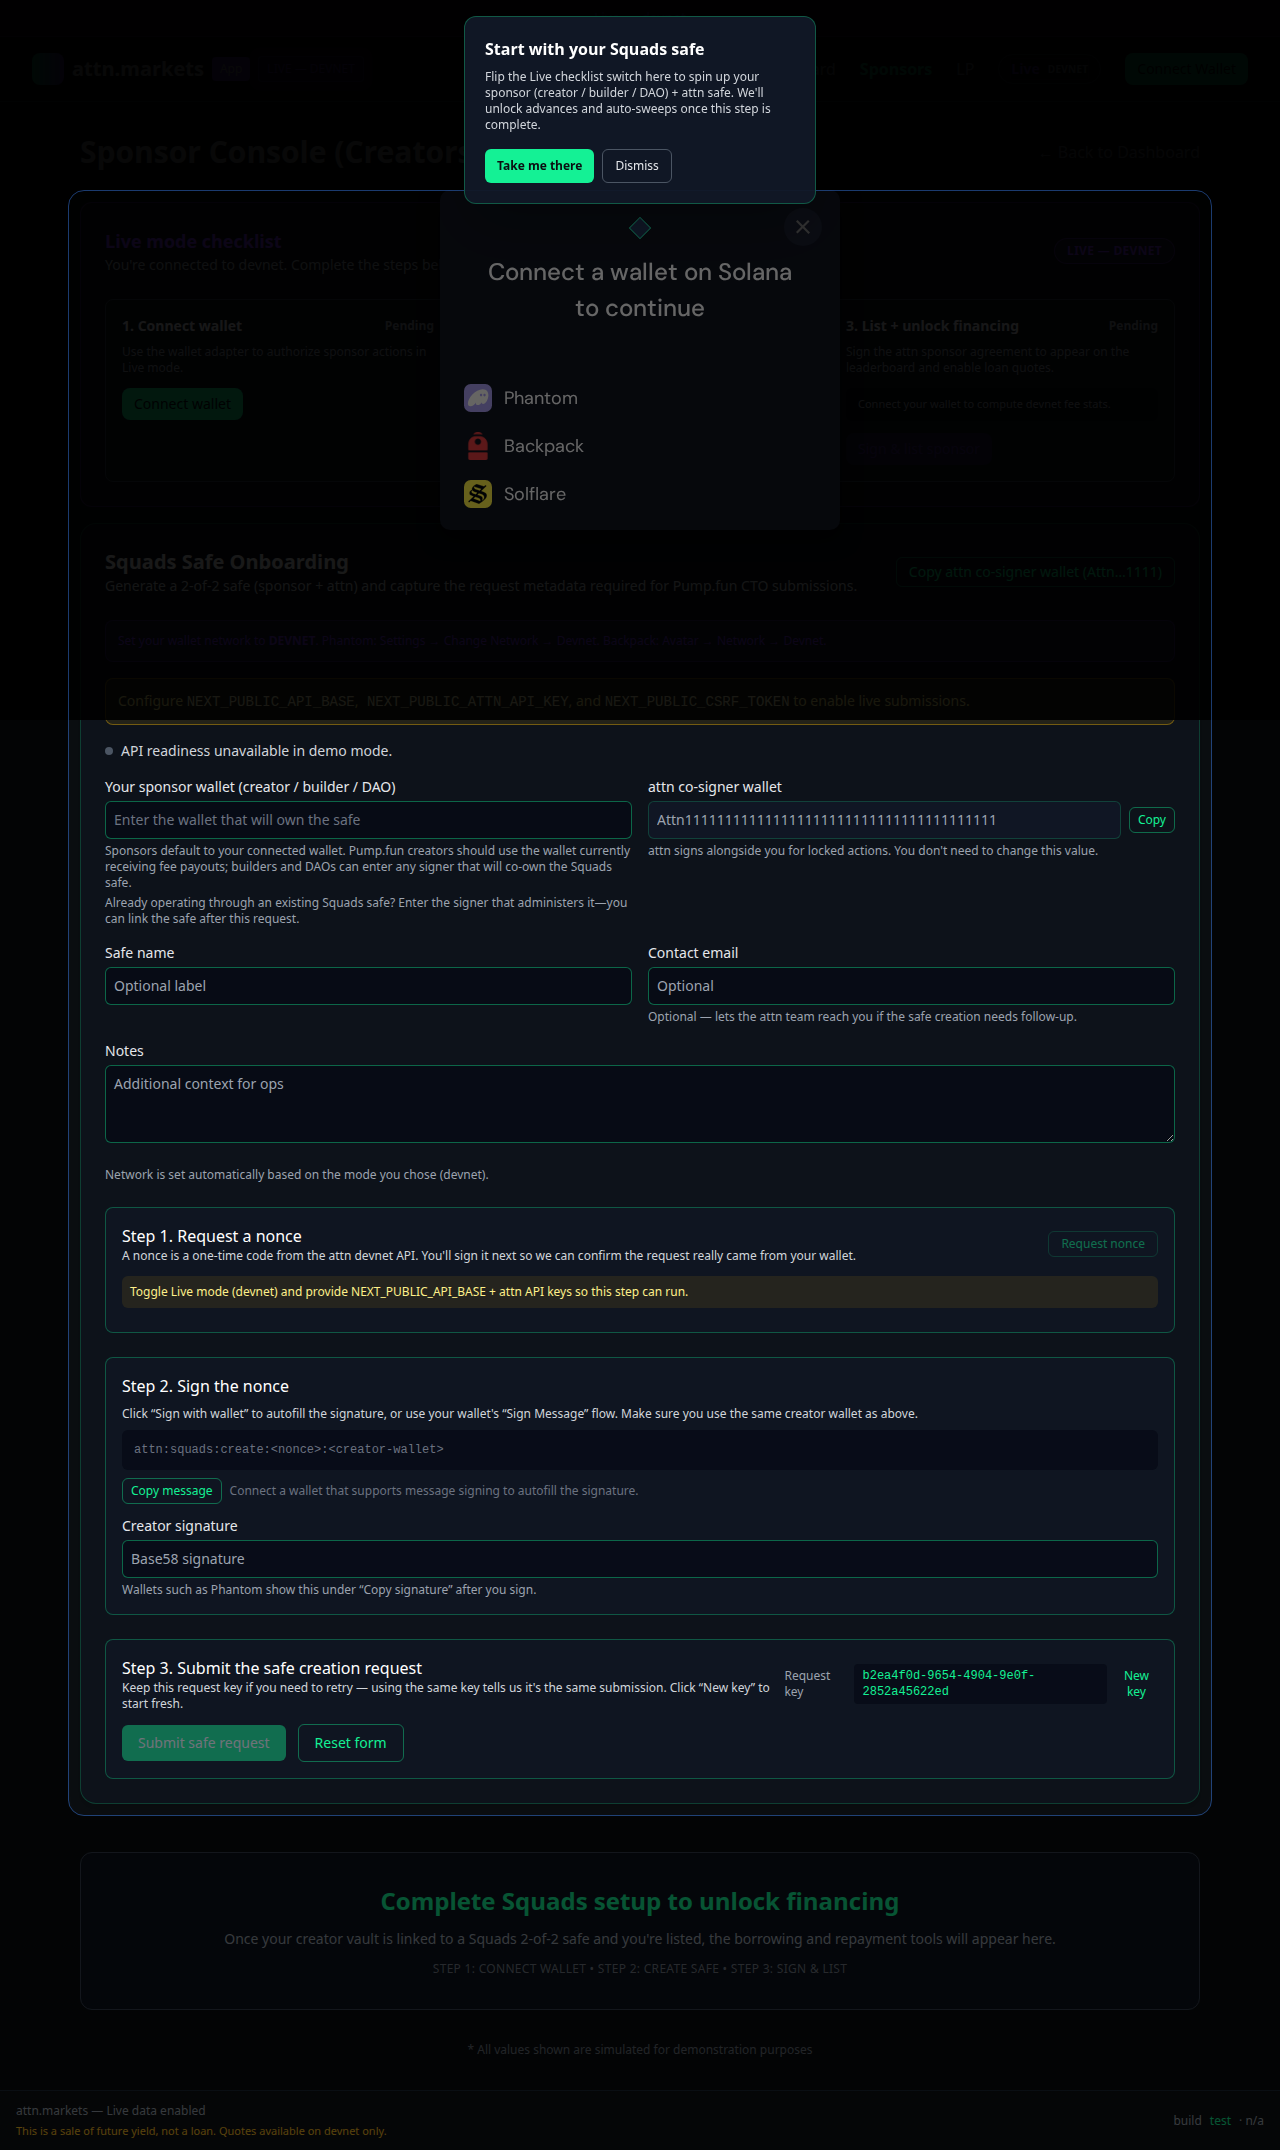
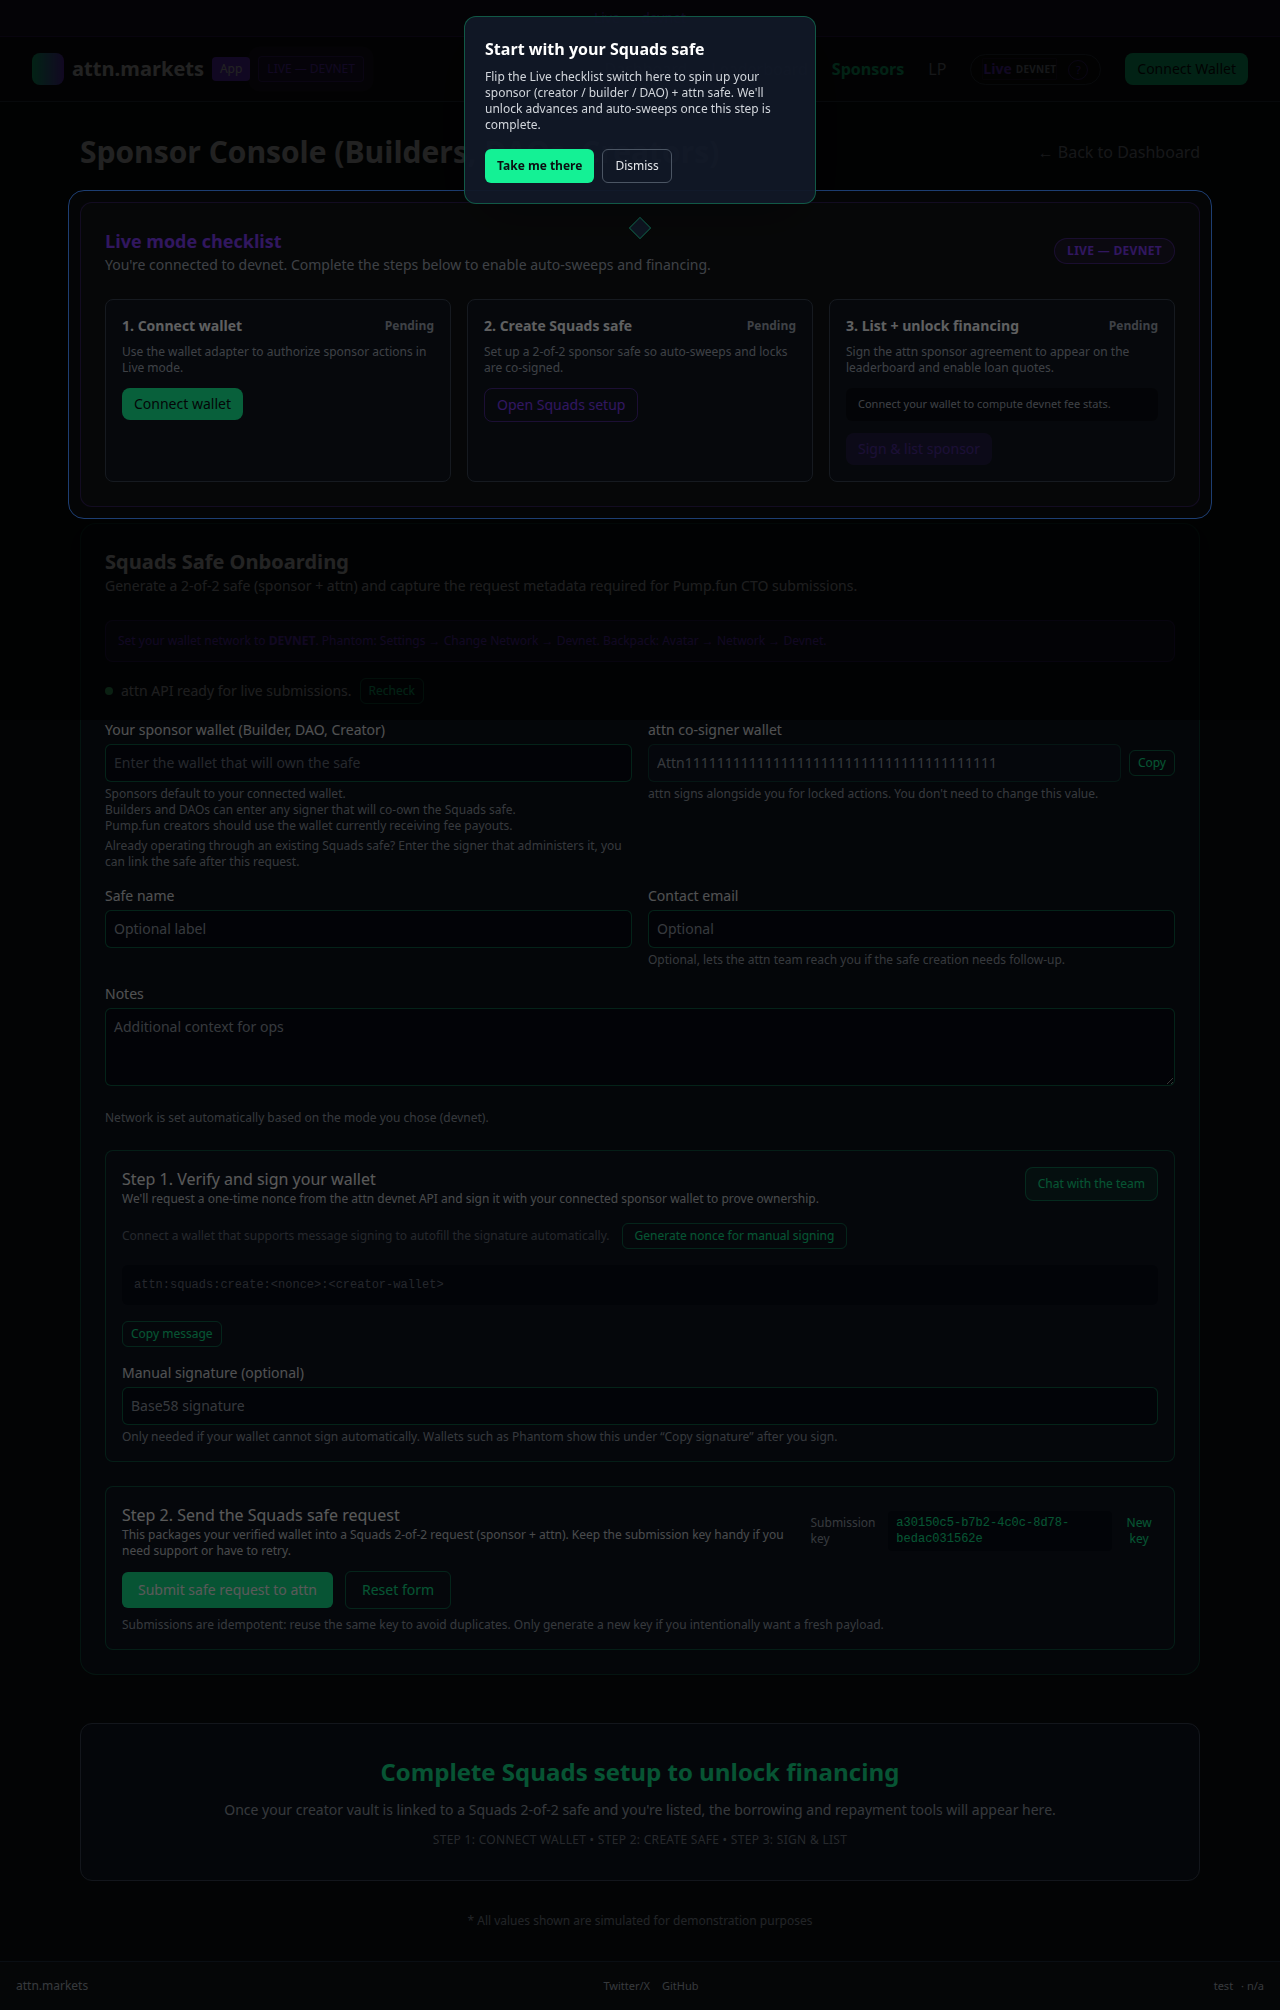
ux: align sponsor live checklist with always-on squads module

diff --git a/apps/dapp-prod/app/sponsor/page.tsx b/apps/dapp-prod/app/sponsor/page.tsx
@@ -1054,115 +1054,117 @@ export default function SponsorPage(): React.JSX.Element {
             ← Back to Dashboard
           </a>
         </div>
-        {isLive && !hasSquadsSafe && (
-          <div ref={liveChecklistRef} className="mb-8 space-y-4">
-            <div className="bg-dark-card border border-secondary/30 rounded-xl p-6">
-              <div className="flex flex-col gap-3 md:flex-row md:items-center md:justify-between">
-                <div>
-                  <h2 className="text-lg font-semibold text-secondary">Live mode checklist</h2>
-                  <p className="text-sm text-text-secondary">
-                    You&apos;re connected to devnet. Complete the steps below to enable auto-sweeps and financing.
-                  </p>
+        {isLive && (
+          <div className="mb-8 space-y-4">
+            {!hasSquadsSafe && (
+              <div ref={liveChecklistRef} className="bg-dark-card border border-secondary/30 rounded-xl p-6">
+                <div className="flex flex-col gap-3 md:flex-row md:items-center md:justify-between">
+                  <div>
+                    <h2 className="text-lg font-semibold text-secondary">Live mode checklist</h2>
+                    <p className="text-sm text-text-secondary">
+                      You&apos;re connected to devnet. Complete the steps below to enable auto-sweeps and financing.
+                    </p>
+                  </div>
+                  <span className="inline-flex items-center gap-2 rounded-full border border-secondary/40 bg-secondary/10 px-3 py-1 text-xs font-semibold uppercase tracking-wide text-secondary">
+                    Live — {cluster}
+                  </span>
                 </div>
-                <span className="inline-flex items-center gap-2 rounded-full border border-secondary/40 bg-secondary/10 px-3 py-1 text-xs font-semibold uppercase tracking-wide text-secondary">
-                  Live — {cluster}
-                </span>
+
+                <div className="mt-6 grid gap-4 md:grid-cols-3">
+                  <div className={`rounded-lg border ${isWalletConnected ? 'border-green-400/40 bg-green-500/10' : 'border-gray-700 bg-gray-900/60'} p-4`}>
+                    <div className="flex items-center justify-between text-sm font-semibold">
+                      <span>1. Connect wallet</span>
+                      <span className={`text-xs ${isWalletConnected ? 'text-green-300' : 'text-text-secondary'}`}>
+                        {isWalletConnected ? 'Connected' : 'Pending'}
+                      </span>
+                    </div>
+                    <p className="mt-2 text-xs text-text-secondary">
+                      Use the wallet adapter to authorize sponsor actions in Live mode.
+                    </p>
+                    {!isWalletConnected && (
+                      <button
+                        onClick={connectWallet}
+                        className="mt-3 inline-flex items-center justify-center rounded-lg bg-primary px-3 py-1.5 text-sm font-medium text-dark hover:bg-primary/90"
+                      >
+                        Connect wallet
+                      </button>
+                    )}
+                  </div>
+
+                  <div className={`rounded-lg border ${hasSquadsSafe ? 'border-green-400/40 bg-green-500/10' : 'border-gray-700 bg-gray-900/60'} p-4`}>
+                    <div className="flex items-center justify-between text-sm font-semibold">
+                      <span>2. Create Squads safe</span>
+                      <span className={`text-xs ${hasSquadsSafe ? 'text-green-300' : 'text-text-secondary'}`}>
+                        {hasSquadsSafe ? 'Linked' : 'Pending'}
+                      </span>
+                    </div>
+                    <p className="mt-2 text-xs text-text-secondary">
+                      Set up a 2-of-2 sponsor safe so auto-sweeps and locks are co-signed.
+                    </p>
+                    {hasSquadsSafe && squadsAdminAddress && (
+                      <div className="mt-3 rounded-md bg-black/40 px-3 py-2 text-[11px] font-mono text-text-secondary">
+                        {squadsAdminAddress.slice(0, 8)}…{squadsAdminAddress.slice(-6)}
+                      </div>
+                    )}
+                    {!hasSquadsSafe && (
+                      <a
+                        href="#squads-setup"
+                        className="mt-3 inline-flex items-center justify-center rounded-lg border border-secondary/50 px-3 py-1.5 text-sm font-medium text-secondary hover:border-secondary"
+                      >
+                        Open Squads setup
+                      </a>
+                    )}
+                  </div>
+
+                  <div className={`rounded-lg border ${(isFullyConnected && hasSquadsSafe) ? 'border-green-400/40 bg-green-500/10' : 'border-gray-700 bg-gray-900/60'} p-4`}>
+                    <div className="flex items-center justify-between text-sm font-semibold">
+                      <span>3. List + unlock financing</span>
+                      <span className={`text-xs ${(isFullyConnected && hasSquadsSafe) ? 'text-green-300' : isPreviewOnly ? 'text-warning' : 'text-text-secondary'}`}>
+                        {(isFullyConnected && hasSquadsSafe) ? 'Ready' : isPreviewOnly ? 'Preview saved' : 'Pending'}
+                      </span>
+                    </div>
+                    <p className="mt-2 text-xs text-text-secondary">
+                      {isPreviewOnly
+                        ? 'Preview created, sign once your Squads safe is live to activate borrowing.'
+                        : 'Sign the attn sponsor agreement to appear on the leaderboard and enable loan quotes.'}
+                    </p>
+                    {creatorMetrics ? (
+                      <div className="mt-3 space-y-1 rounded-md border border-secondary/20 bg-black/30 px-3 py-2 text-[11px] text-text-secondary">
+                        <div className="flex justify-between">
+                          <span>Total fees (est.)</span>
+                          <span className="font-mono">${creatorMetrics.totalFeesUsd.toLocaleString()}</span>
+                        </div>
+                        <div className="flex justify-between">
+                          <span>Avg. daily (14d)</span>
+                          <span className="font-mono">
+                            ${creatorMetrics.recent14dAverageUsd.toLocaleString(undefined, { maximumFractionDigits: 2 })}
+                          </span>
+                        </div>
+                        <div className="flex justify-between text-secondary">
+                          <span>Reward points</span>
+                          <span className="font-mono font-semibold">{creatorMetrics.leaderboardPoints.toLocaleString()}</span>
+                        </div>
+                      </div>
+                    ) : (
+                      <div className="mt-3 rounded-md bg-black/40 px-3 py-2 text-[11px] text-text-secondary">
+                        Connect your wallet to compute devnet fee stats.
+                      </div>
+                    )}
+                    {(!isFullyConnected || !hasSquadsSafe) && (
+                      <button
+                        onClick={signAndListCreator}
+                        className="mt-3 inline-flex items-center justify-center rounded-lg bg-secondary/30 px-3 py-1.5 text-sm font-medium text-secondary hover:bg-secondary/20 disabled:opacity-50"
+                        disabled={!isWalletConnected || (isFullyConnected && hasSquadsSafe)}
+                      >
+                        Sign &amp; list sponsor
+                      </button>
+                    )}
+                  </div>
+                </div>
               </div>
+            )}
 
-              <div className="mt-6 grid gap-4 md:grid-cols-3">
-                <div className={`rounded-lg border ${isWalletConnected ? 'border-green-400/40 bg-green-500/10' : 'border-gray-700 bg-gray-900/60'} p-4`}>
-                  <div className="flex items-center justify-between text-sm font-semibold">
-                    <span>1. Connect wallet</span>
-                    <span className={`text-xs ${isWalletConnected ? 'text-green-300' : 'text-text-secondary'}`}>
-                      {isWalletConnected ? 'Connected' : 'Pending'}
-                    </span>
-                  </div>
-                  <p className="mt-2 text-xs text-text-secondary">
-                    Use the wallet adapter to authorize sponsor actions in Live mode.
-                  </p>
-                  {!isWalletConnected && (
-                    <button
-                      onClick={connectWallet}
-                      className="mt-3 inline-flex items-center justify-center rounded-lg bg-primary px-3 py-1.5 text-sm font-medium text-dark hover:bg-primary/90"
-                    >
-                      Connect wallet
-                    </button>
-                  )}
-                </div>
-
-                <div className={`rounded-lg border ${hasSquadsSafe ? 'border-green-400/40 bg-green-500/10' : 'border-gray-700 bg-gray-900/60'} p-4`}>
-                  <div className="flex items-center justify-between text-sm font-semibold">
-                    <span>2. Create Squads safe</span>
-                    <span className={`text-xs ${hasSquadsSafe ? 'text-green-300' : 'text-text-secondary'}`}>
-                      {hasSquadsSafe ? 'Linked' : 'Pending'}
-                    </span>
-                  </div>
-                  <p className="mt-2 text-xs text-text-secondary">
-                    Set up a 2-of-2 sponsor safe so auto-sweeps and locks are co-signed.
-                  </p>
-                  {hasSquadsSafe && squadsAdminAddress && (
-                    <div className="mt-3 rounded-md bg-black/40 px-3 py-2 text-[11px] font-mono text-text-secondary">
-                      {squadsAdminAddress.slice(0, 8)}…{squadsAdminAddress.slice(-6)}
-                    </div>
-                  )}
-                  {!hasSquadsSafe && (
-                    <a
-                      href="#squads-setup"
-                      className="mt-3 inline-flex items-center justify-center rounded-lg border border-secondary/50 px-3 py-1.5 text-sm font-medium text-secondary hover:border-secondary"
-                    >
-                      Open Squads setup
-                    </a>
-                  )}
-                </div>
-
-                <div className={`rounded-lg border ${(isFullyConnected && hasSquadsSafe) ? 'border-green-400/40 bg-green-500/10' : 'border-gray-700 bg-gray-900/60'} p-4`}>
-                  <div className="flex items-center justify-between text-sm font-semibold">
-                    <span>3. List + unlock financing</span>
-                    <span className={`text-xs ${(isFullyConnected && hasSquadsSafe) ? 'text-green-300' : isPreviewOnly ? 'text-warning' : 'text-text-secondary'}`}>
-                      {(isFullyConnected && hasSquadsSafe) ? 'Ready' : isPreviewOnly ? 'Preview saved' : 'Pending'}
-                    </span>
-                  </div>
-                  <p className="mt-2 text-xs text-text-secondary">
-                    {isPreviewOnly
-                      ? 'Preview created, sign once your Squads safe is live to activate borrowing.'
-                      : 'Sign the attn sponsor agreement to appear on the leaderboard and enable loan quotes.'}
-                  </p>
-                  {creatorMetrics ? (
-                    <div className="mt-3 space-y-1 rounded-md border border-secondary/20 bg-black/30 px-3 py-2 text-[11px] text-text-secondary">
-                      <div className="flex justify-between">
-                        <span>Total fees (est.)</span>
-                        <span className="font-mono">${creatorMetrics.totalFeesUsd.toLocaleString()}</span>
-                      </div>
-                      <div className="flex justify-between">
-                        <span>Avg. daily (14d)</span>
-                        <span className="font-mono">
-                          ${creatorMetrics.recent14dAverageUsd.toLocaleString(undefined, { maximumFractionDigits: 2 })}
-                        </span>
-                      </div>
-                      <div className="flex justify-between text-secondary">
-                        <span>Reward points</span>
-                        <span className="font-mono font-semibold">{creatorMetrics.leaderboardPoints.toLocaleString()}</span>
-                      </div>
-                    </div>
-                  ) : (
-                    <div className="mt-3 rounded-md bg-black/40 px-3 py-2 text-[11px] text-text-secondary">
-                      Connect your wallet to compute devnet fee stats.
-                    </div>
-                  )}
-                  {(!isFullyConnected || !hasSquadsSafe) && (
-                    <button
-                      onClick={signAndListCreator}
-                      className="mt-3 inline-flex items-center justify-center rounded-lg bg-secondary/30 px-3 py-1.5 text-sm font-medium text-secondary hover:bg-secondary/20 disabled:opacity-50"
-                      disabled={!isWalletConnected || (isFullyConnected && hasSquadsSafe)}
-                    >
-                      Sign &amp; list sponsor
-                    </button>
-                  )}
-                </div>
-              </div>
-            </div>
-
-            {!hasSquadsSafe && squadsFeatureEnabled && SquadsSafeOnboarding && (
+            {squadsFeatureEnabled && SquadsSafeOnboarding && (
               <div id="squads-setup" className="scroll-mt-24">
                 <SquadsSafeOnboarding />
               </div>

diff --git a/apps/dapp-prod/tests/live-onboarding.spec.ts b/apps/dapp-prod/tests/live-onboarding.spec.ts
@@ -106,6 +106,19 @@ test.describe('Creator live onboarding', () => {
         body: JSON.stringify({ pools: [] }),
       });
     });
+    await page.route('**/api/bridge/v1/portfolio/**', async (route) => {
+      await route.fulfill({
+        status: 200,
+        contentType: 'application/json',
+        body: JSON.stringify({
+          wallet: 'demo-wallet',
+          deposits: [],
+          positions: [],
+          total_value_usdc: 0,
+          updated_at: new Date().toISOString(),
+        }),
+      });
+    });
     await page.route('**/api/bridge/readyz', async (route) => {
       await route.fulfill({
         status: 200,
@@ -130,7 +143,9 @@ test.describe('Creator live onboarding', () => {
       timeout: 60_000,
     });
 
-    const liveBadge = page.locator('nav [title*="Solana devnet active"]').first();
+    const liveBadge = page.getByLabel(
+      'Solana devnet active. Switch your wallet to Devnet (Phantom: Settings → Change Network → Devnet. Backpack: Avatar → Network → Devnet).'
+    );
     const connectButton = page.getByRole('button', { name: /Connect Wallet/i }).first();
     const gatingCallout = page.locator('text=Complete Squads setup to unlock financing');
 

diff --git a/docs/sponsor-cto-onboarding.md b/docs/sponsor-cto-onboarding.md
@@ -69,7 +69,7 @@ This doc captures the incremental work required to:
   - [x] Store a localStorage key to prevent repeat tours once acknowledged.
 - [ ] Tests
   - [ ] Update unit and integration tests for the updated hook logic.
-  - [ ] Playwright/Jest snapshot verifying the new CTA + helper content.
+  - [x] Playwright coverage validating existing safe detection, CTA visibility, and duplicate submission handling.
 
 ### Frontend – Attn Signer Addition Flow
 
